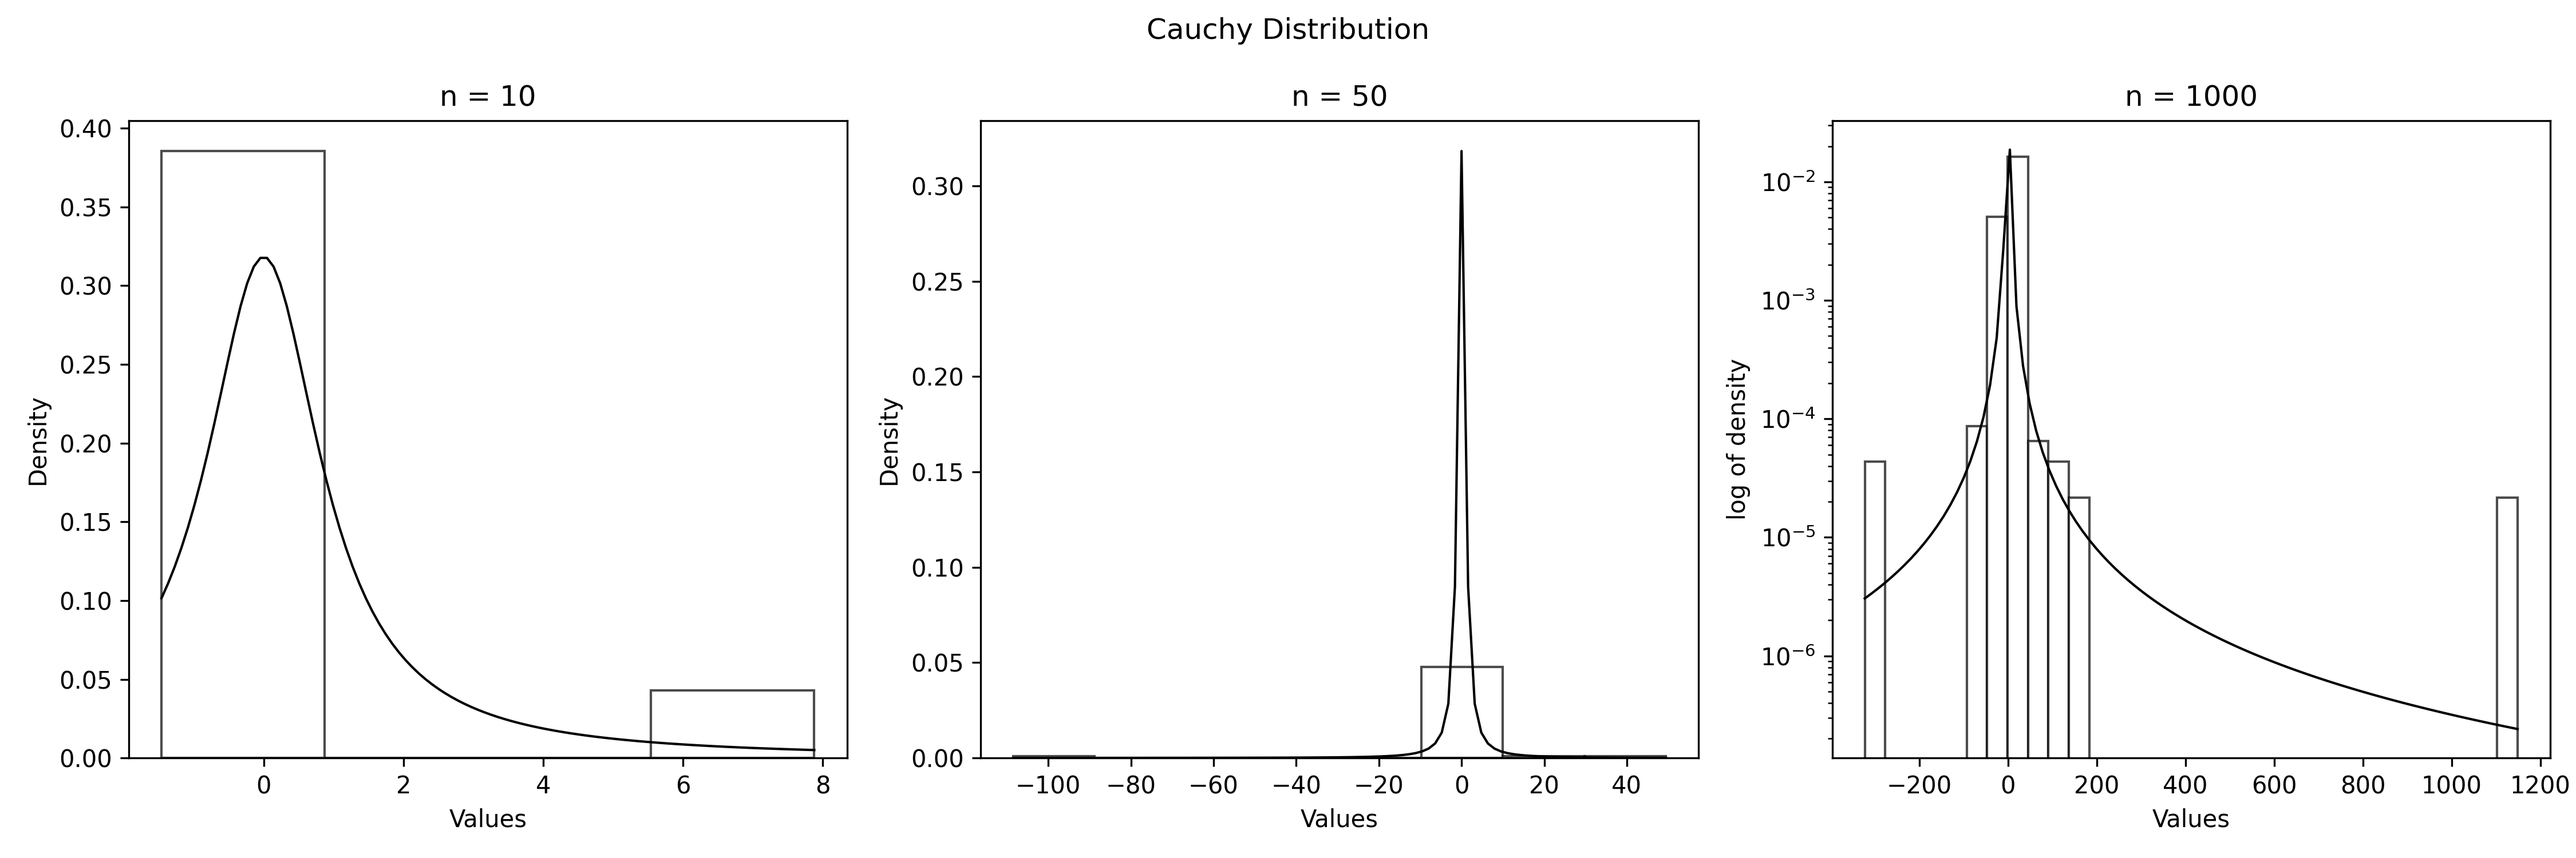
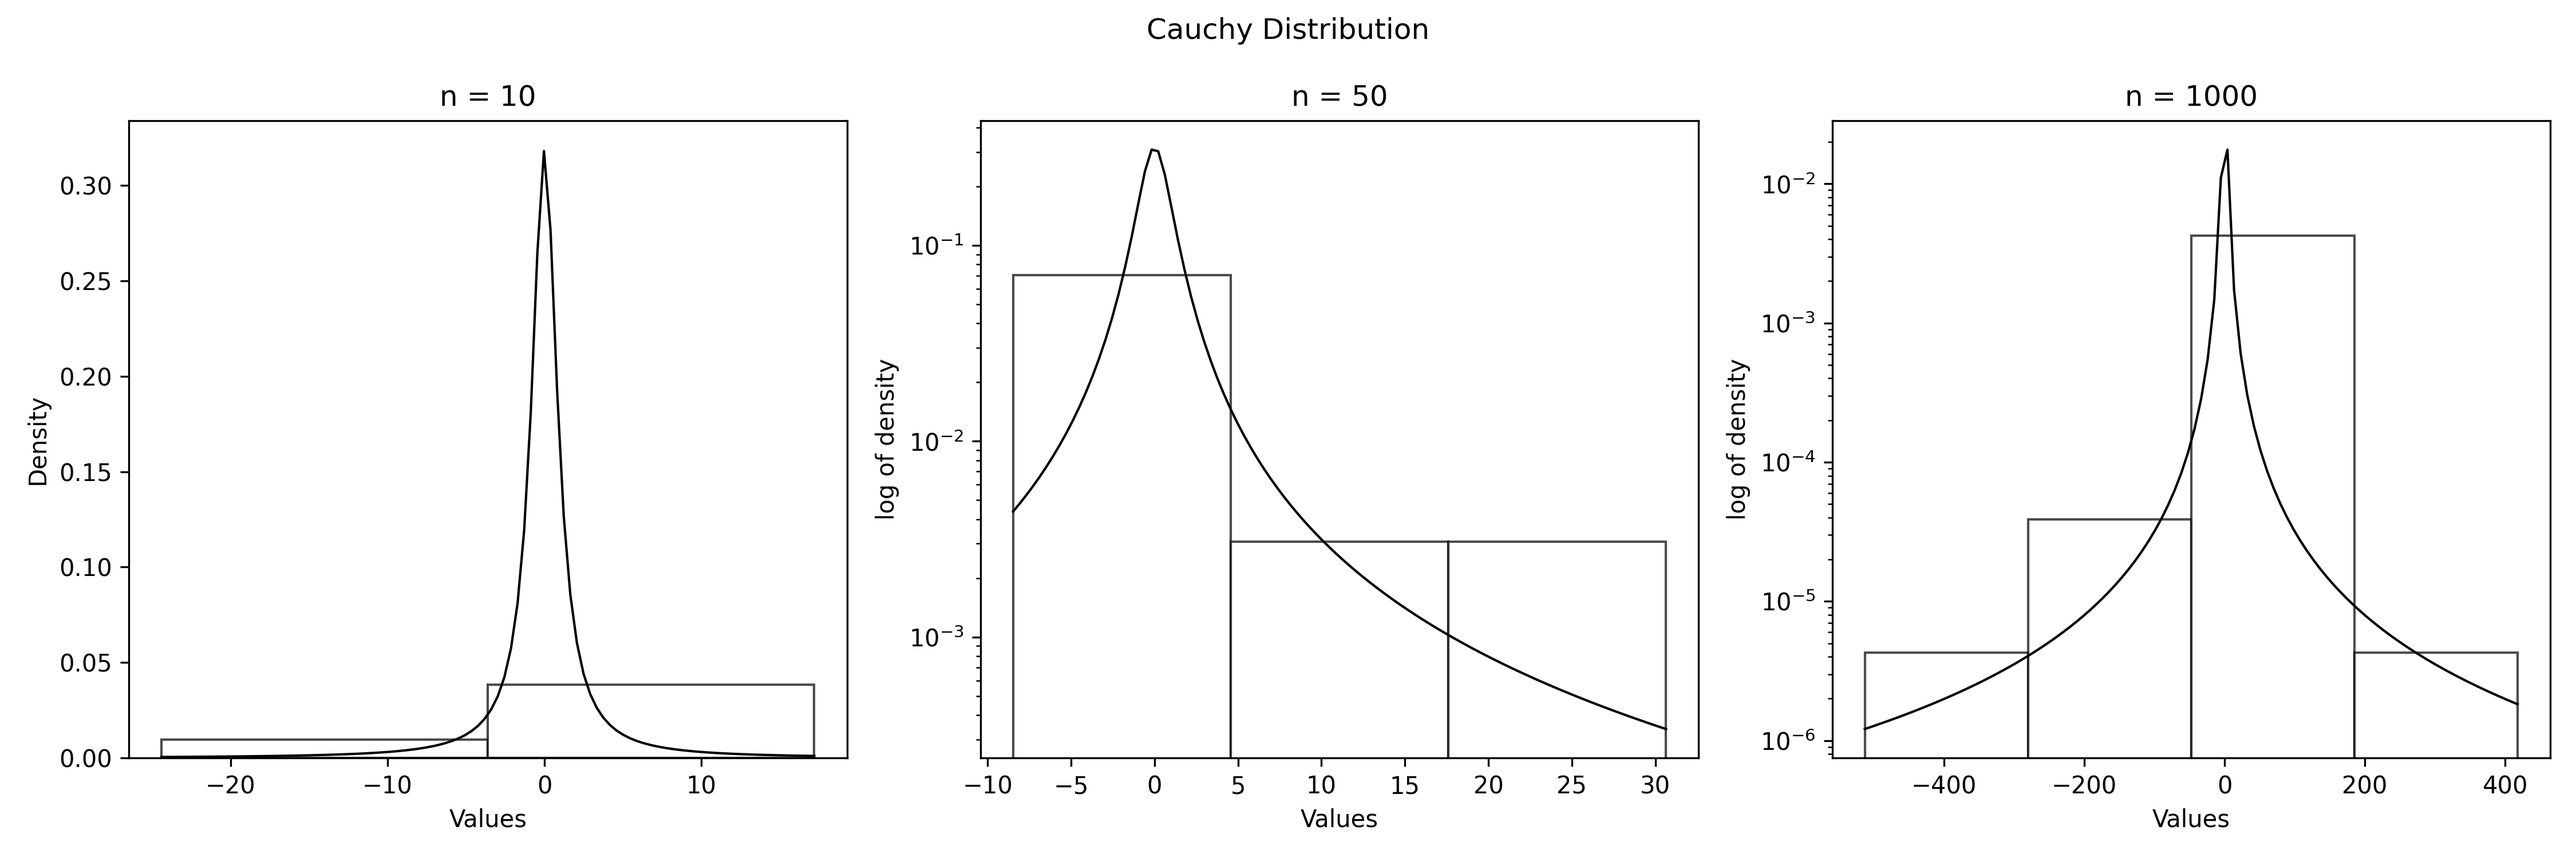
Fixed numeration, bins, significant numbers output handling

diff --git a/graphics.py b/graphics.py
@@ -1,7 +1,7 @@
 import os
 import numpy as np
 import matplotlib.pyplot as plt
-from math import sqrt, ceil
+from math import sqrt
 from scipy.stats import norm, cauchy, uniform
 from scipy.special import gamma
 
@@ -13,30 +13,34 @@ distributions = {
     "Normal": {
         "params": {"mu": 0.0, "sigma": 1.0},
         "generator": lambda params, size: np.random.normal(params["mu"], params["sigma"], size),
-        "density": lambda x, params: norm(params["mu"], params["sigma"]).pdf(x)
+        "density": lambda x, params: norm(params["mu"], params["sigma"]).pdf(x),
+        # The number of histogram bins is approximately the square root of each sample size
+        "bins": [3, 7, 10]
     },
     "Cauchy": {
         "params": {"x0": 0.0, "gamma": 1.0},
         "generator": lambda params, size: params["x0"] + params["gamma"] * np.random.standard_cauchy(size),
-        "density": lambda x, params: cauchy(params["x0"], params["gamma"]).pdf(x)
+        "density": lambda x, params: cauchy(params["x0"], params["gamma"]).pdf(x),
+        # For Cauchy distribution bins have to be bigger in order to avoid empty spaces in the histogram
+        "bins": [2, 3, 4]
     },
     "Poisson": {
         "params": {"mu": 10.0},
         "generator": lambda params, size: np.random.poisson(params["mu"], size),
-        "density": lambda x, params: (params["mu"] ** x) * np.exp(-params["mu"]) / gamma(x + 1)
+        "density": lambda x, params: (params["mu"] ** x) * np.exp(-params["mu"]) / gamma(x + 1),
+        "bins": [3, 6, 9]
     },
     "Uniform": {
         "params": {"a": -sqrt(3), "b": sqrt(3)},
         "generator": lambda params, size: np.random.uniform(params["a"], params["b"], size),
-        "density": lambda x, params: uniform(params["a"], params["b"] - params["a"]).pdf(x)
+        "density": lambda x, params: uniform(params["a"], params["b"] - params["a"]).pdf(x),
+        "bins": [3, 7, 10]
     }
 }
 
 
 # Plots distribution graphs and histograms and saves them as png
 def plot_distributions(sample_sizes: list[int]) -> None:
-    # The number of histogram bins is decided based on the square root of each sample size
-    bins = [ceil(sqrt(size)) for size in sample_sizes]
 
     # Iterate through all distributions
     for name, dist in distributions.items():
@@ -63,7 +67,7 @@ def plot_distributions(sample_sizes: list[int]) -> None:
             plt.subplot(1, len(sample_sizes), i + 1)
 
             # Plot the histogram of the sample
-            plt.hist(sample, bins=bins[i], density=True,
+            plt.hist(sample, bins=dist["bins"][i], density=True,
                      color='white', edgecolor='black', alpha=0.7)
 
             # Plot the probability density function curve over the histogram
@@ -76,7 +80,7 @@ def plot_distributions(sample_sizes: list[int]) -> None:
             # Special handling for the Cauchy distribution with large sample sizes
             # - The Cauchy distribution has a heavy tail, so the density range can vary significantly
             # - To better visualize the data, logarithmic y-axis is used for large samples
-            if name == "Cauchy" and size > 500:
+            if name == "Cauchy" and size >= 50:
                 plt.yscale('log')
                 plt.ylabel('log of density')
 

diff --git a/characteristics.py b/characteristics.py
@@ -21,6 +21,14 @@ def calculate_statistics(sample: np.ndarray) -> np.ndarray:
     return np.array([x, med_x, z_q])
 
 
+# Function for formatting numbers depending on the index of the string
+def format_rows(val: float, index: str) -> str:
+    if index == "E(z)^{(4)}":
+        return f"{val:.2g}"  # Two significant figures for E(z)
+    elif index == "D(z)^{(5)}":
+        return f"{val:.4g}"  # Four significant figures for D(z)
+
+
 # Calculates and outputs statistical characteristics for different sample types
 def print_characteristics(sample_size: list[int]) -> None:
     # A dictionary of sample generators and their names
@@ -52,20 +60,21 @@ def print_characteristics(sample_size: list[int]) -> None:
             # Create and display a DataFrame containing statistics
             df = pd.DataFrame(
                 [means, variances],
-                columns=["x", "med x", "z_Q"],
-                index=["E(z)", "D(z)"]
+                columns=["x^{(1)}", "med x^{(2)}", "z_Q^{(3)}"],
+                index=["E(z)^{(4)}", "D(z)^{(5)}"]
             )
 
-            # Convert into LATEX tables
-            latex_str = df.to_latex(index=True,
-                                    caption='Sample size {}'.format(size),
-                                    escape=False)
+            # Apply formatting to each row of the DataFrame
+            formatted_df = df.apply(lambda row: row.apply(format_rows, index=row.name), axis=1)
+
+            latex_str = formatted_df.to_latex(
+                index=True,
+                caption=f'Sample size {size}',
+                escape=False
+            )
 
             latex_str = latex_str.replace('\\begin{table}', '\\begin{table}[H] \\centering')
             latex_str = latex_str.replace('\\caption{', '\\caption*{')
             print(latex_str)
 
         print('\\end{center}\n')
-
-            # print(f"{name} distribution, n = {size}")
-            # display(df)
